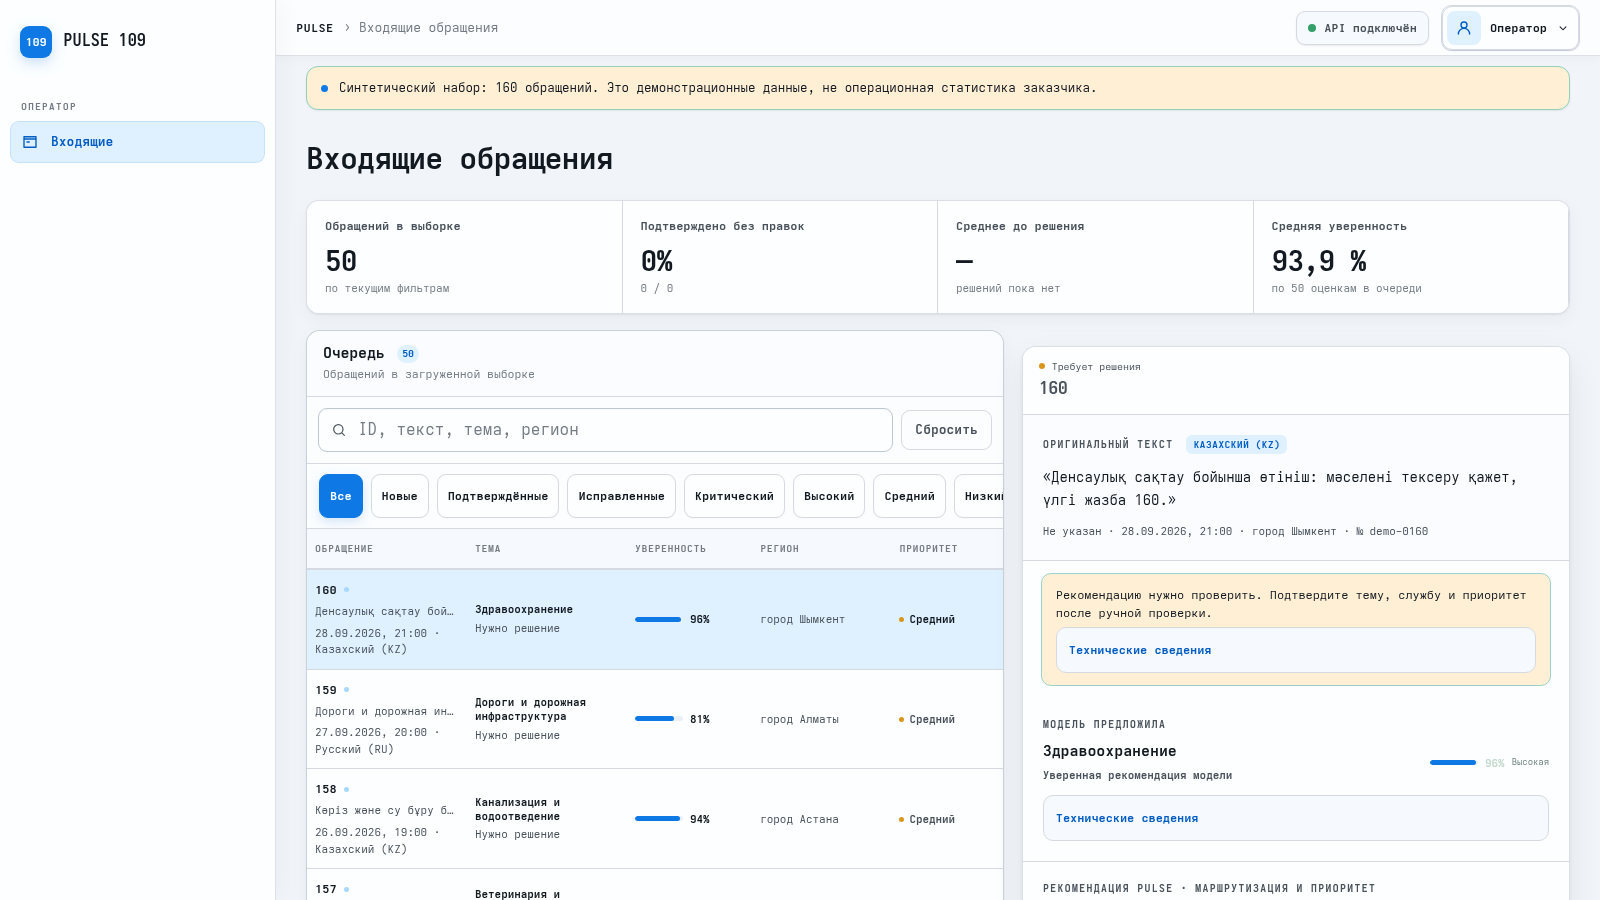
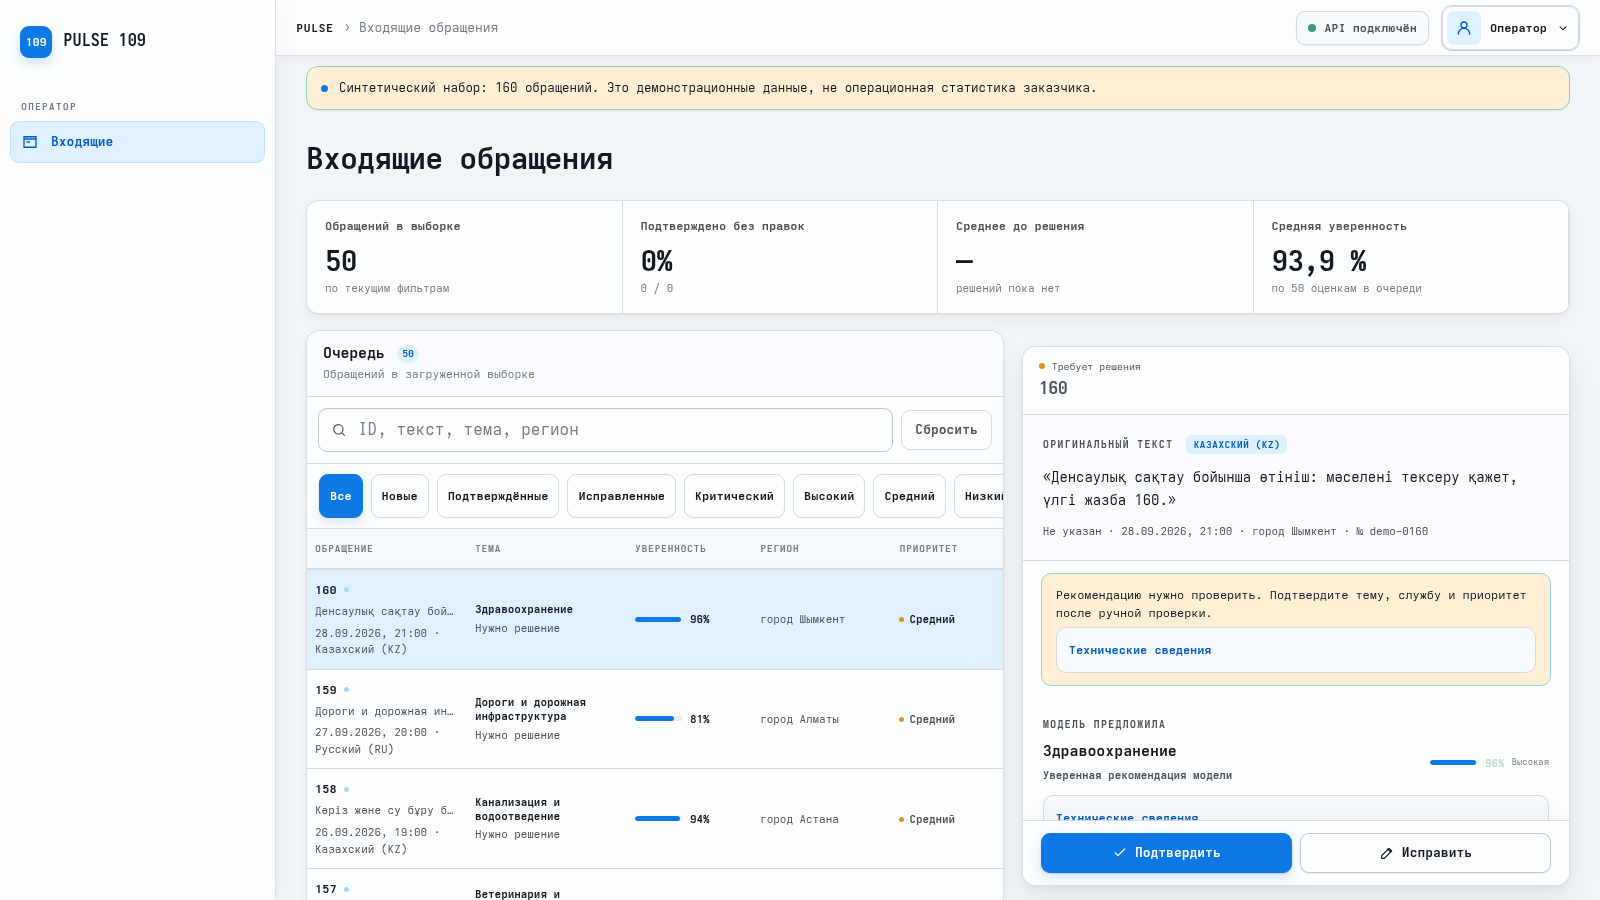
fix(frontend): keep operator decision actions in view

Changed region(s): [[0.625, 0.9022, 0.9688, 0.9956]]

diff --git a/frontend/src/styles/app-adapters.css b/frontend/src/styles/app-adapters.css
@@ -606,8 +606,14 @@ button:disabled {
   top: calc(var(--topbar) + 16px);
   max-height: calc(100dvh - var(--topbar) - 32px);
   min-width: 0;
-  overflow: auto;
-  scrollbar-width: thin;
+  overflow: hidden;
+}
+
+/* The detail card starts below the banner, heading and summary on wide screens. */
+@media (min-width: 1181px) {
+  .ticket-detail.detail.panel {
+    max-height: calc(100dvh - 360px);
+  }
 }
 
 .detail-header.detail-head {
@@ -627,7 +633,14 @@ button:disabled {
 }
 
 .detail-scroll {
-  overflow: visible;
+  min-height: 0;
+  overflow-y: auto;
+  scrollbar-width: thin;
+}
+
+.ticket-detail .detail-actions {
+  position: static;
+  flex-shrink: 0;
 }
 
 .original-text-block {
@@ -1271,6 +1284,25 @@ button:disabled {
 @media (max-width: 1180px) {
   .span-two {
     grid-column: auto;
+  }
+
+  .ticket-detail.detail.panel {
+    display: none;
+    position: fixed;
+    inset: 0;
+    margin: 0;
+    max-height: none;
+    border: 0;
+    border-radius: 0;
+  }
+
+  .ticket-detail.detail.panel.ticket-detail-open {
+    display: flex;
+    z-index: 40;
+  }
+
+  .ticket-detail.detail.panel.ticket-detail-open .detail-close {
+    display: inline-grid;
   }
 }
 

diff --git a/docs/demo-brief-2026-09-29.md b/docs/demo-brief-2026-09-29.md
@@ -41,13 +41,13 @@ PULSE_BASE_URL=http://127.0.0.1:8080 scripts/smoke
 | **0:00–0:12** | На стартовой странице навести курсор на карточку **Оператор**. | «Оператору 109 нужно быстро понять суть обращения и выбрать, кому его направить. Pulse 109 помогает сделать это в одном рабочем окне». |
 | **0:12–0:28** | Нажать **Оператор**. Дождаться заголовка **Входящие обращения**. Указать курсором на очередь слева и карточку справа. | «Слева очередь обращений, справа вся информация для решения. Сейчас это 160 синтетических примеров на русском и казахском языках». |
 | **0:28–0:48** | В первой строке очереди нажать **160**; на широком экране карточка уже выбрана автоматически. Показать казахский исходный текст и блок **Модель предложила**. | «Откроем обращение 160. Система прочитала казахский текст и предложила тему “Здравоохранение”. Это подсказка оператору, а не автоматическое решение». |
-| **0:48–1:08** | Поставить курсор **над левой очередью** и прокрутить **всю страницу** вниз примерно на 250–300 пикселей. Справа будут видны блок **Рекомендация Pulse**, служба **Управление здравоохранения**, приоритет **Средний** и **синяя широкая кнопка “Подтвердить” внизу правой карточки**. Нажать именно эту синюю кнопку. | «Здесь видны рекомендованная служба и приоритет. Оператор проверяет их и подтверждает маршрут. Именно это действие фиксируется как решение человека». |
+| **0:48–1:08** | Кнопки **Подтвердить** и **Исправить** уже видны внизу правой карточки. Навести курсор на содержимое **правой карточки** и чуть прокрутить **внутри неё**, чтобы полностью показать блок **Рекомендация Pulse**: службу **Управление здравоохранения** и приоритет **Средний**. Кнопки останутся на месте. После проверки нажать синюю **Подтвердить**. | «Здесь видны рекомендованная служба и приоритет. Оператор проверяет их и подтверждает маршрут. Именно это действие фиксируется как решение человека». |
 | **1:08–1:22** | На несколько секунд оставить карточку с надписью **Подтверждено**. Не нажимать кнопки у похожих обращений. | «Прогноз модели и подтверждённое решение хранятся раздельно. Официальный статус обращения во внешней 109 от этого не меняется». |
 | **1:22–1:38** | Вверху справа нажать **Профиль → Выйти**, затем на экране выбора нажать **Руководитель**. | «Теперь переключимся на руководителя. Ему нужен общий поток и результат работы операторов, а не текст каждой карточки». |
 | **1:38–1:50** | На странице **Обзор потока** нажать **30 дней**. Показать счётчик обращений и карточку **Решения оператора**. После подтверждения 160 там должно быть одно решение. | «За выбранный период видны объём обращений, приоритеты и решения операторов. Аналитика строится по тем же сохранённым событиям». |
 | **1:50–1:55** | Если уложились по времени, слева нажать **Прогноз** и оставить экран с переключателями **30 / 60 / 90 дней**. Если времени нет, закончить на обзоре. | «Это работающий demo-контур. Качество на данных заказчика проверим на следующем этапе». |
 
-**Важно при прокрутке:** колесо мыши над правой карточкой прокручивает только её содержимое и может спрятать нужную рекомендацию. Для кадра с синей кнопкой прокрутите страницу, держа курсор над **левой очередью**. На снимке ниже показан правильный кадр перед нажатием.
+**Важно при прокрутке:** держите курсор над содержимым **правой карточки**. Прокручивается только её содержимое; кнопки решения остаются видимыми. Всю страницу прокручивать не нужно. На снимке ниже показан кадр перед нажатием.
 
 ### Визуальная шпаргалка
 
@@ -59,7 +59,7 @@ PULSE_BASE_URL=http://127.0.0.1:8080 scripts/smoke
 
 ![Очередь и карточка оператора](demo-assets/02-operator.png)
 
-**3. Решение:** после небольшой прокрутки всей страницы видны рекомендация и синяя кнопка внизу **правой** карточки.
+**3. Решение:** немного прокрутите содержимое правой карточки: рекомендация и синяя кнопка решения будут видны одновременно, без прокрутки всей страницы.
 
 ![Рекомендация и кнопка подтверждения](demo-assets/03-operator-decision.png)
 
